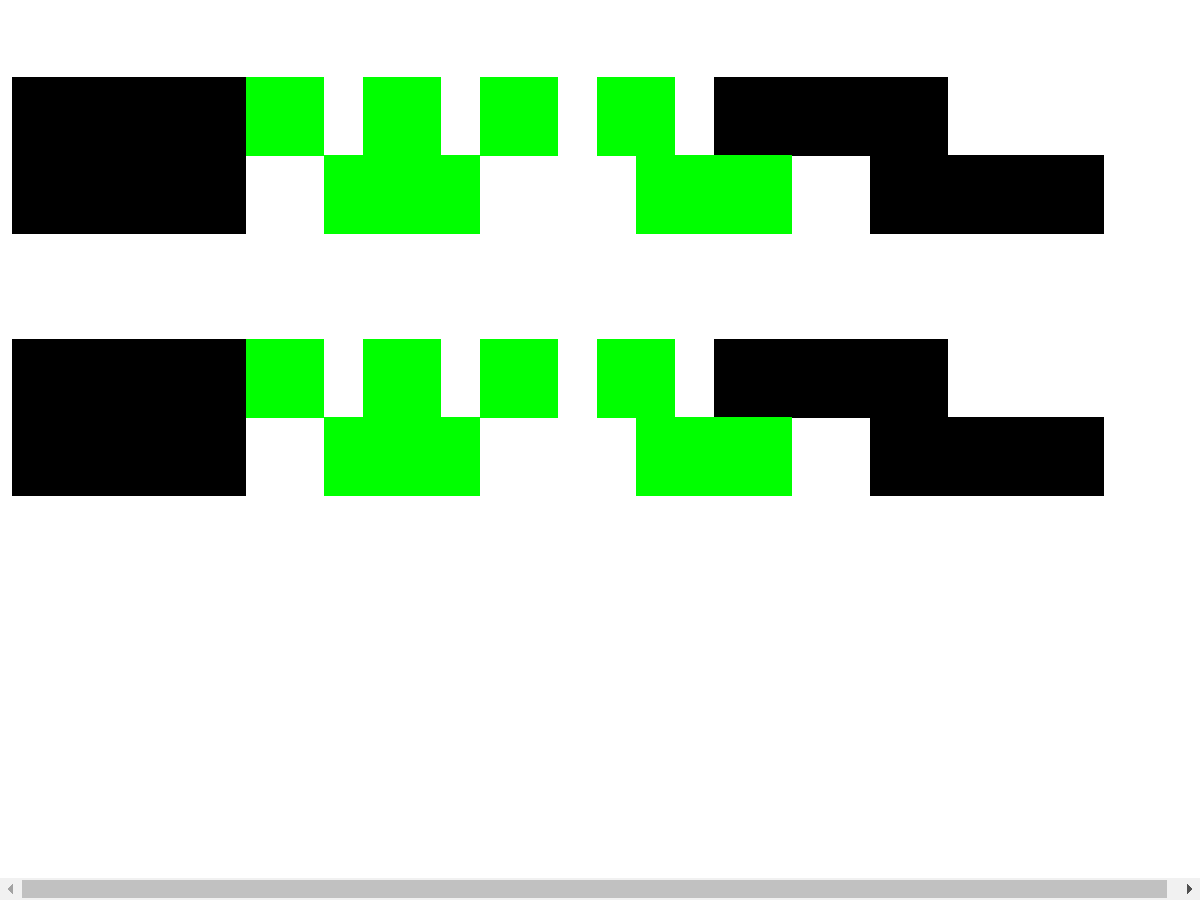
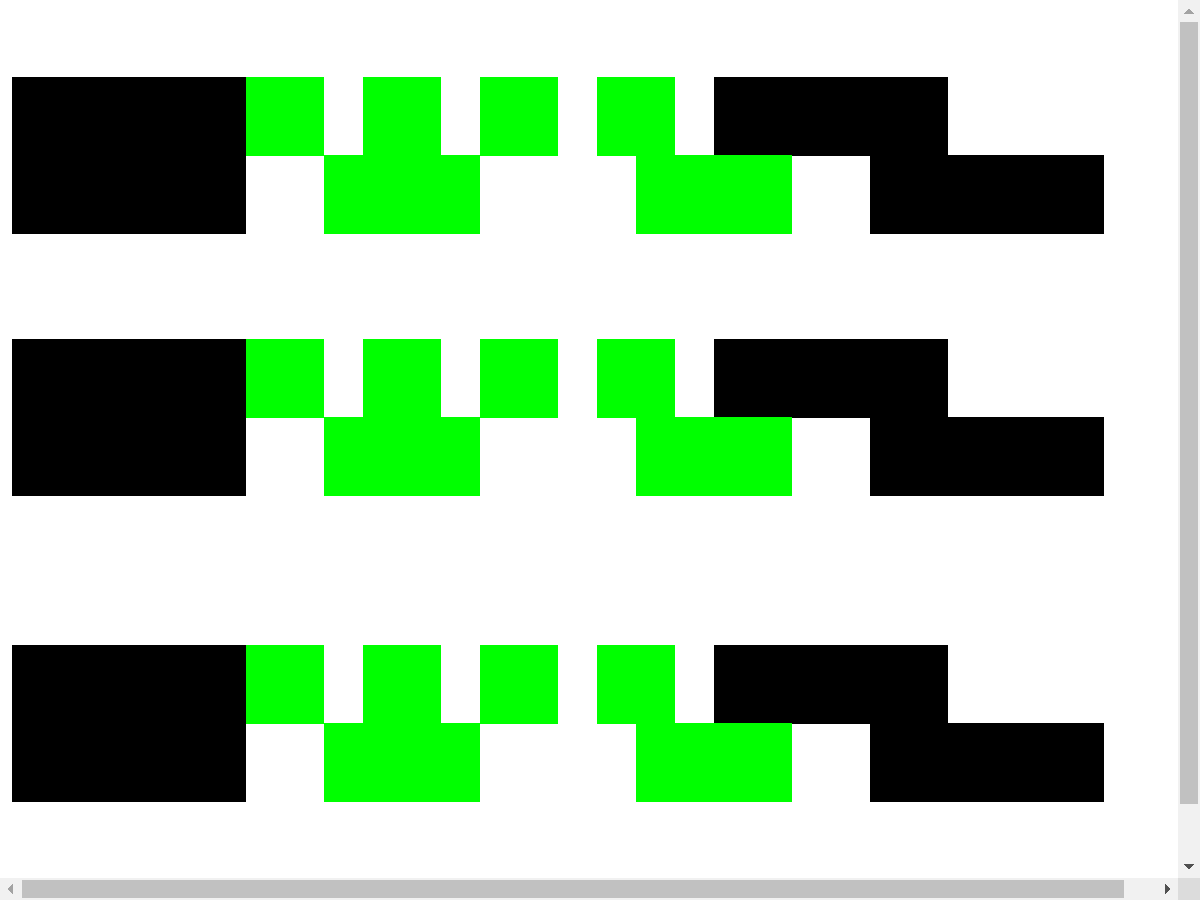
SVG Text NG: Fix letter-spacing and word-spacing with zoom
FontDescription::LetterSpacing and WordSpacing have zoomed values, and
|scaling_factor| also contains zoom factor. We should avoid to multiply
zoom factor twice.

Bug: 1179585
Commit-Queue: Kent Tamura <tkent@chromium.org>
Commit-Queue: Koji Ishii <kojii@chromium.org>
Commit-Queue: Yoshifumi Inoue <yosin@chromium.org>
Auto-Submit: Kent Tamura <tkent@chromium.org>
Cr-Commit-Position: refs/heads/master@{#891161}

diff --git a/web_tests/svg/text/spacing.html b/web_tests/svg/text/spacing.html
@@ -32,3 +32,8 @@ AAA <span class="wsp">BB CC</span> DDD</p>
 <text class="base" y="30">AAA<tspan class="lsp">BBBB</tspan>CCC</text>
 <text class="base" y="56">AAA <tspan class="wsp">BB CC</tspan> DDD</text>
 </svg>
+<br>
+<svg width="200" height="50" viewBox="0 0 400 100" style="zoom:4.0">
+<text class="base" y="30">AAA<tspan class="lsp">BBBB</tspan>CCC</text>
+<text class="base" y="56">AAA <tspan class="wsp">BB CC</tspan> DDD</text>
+</svg>

diff --git a/renderer/core/layout/svg/layout_svg_inline_text.cc b/renderer/core/layout/svg/layout_svg_inline_text.cc
@@ -462,10 +462,11 @@ void LayoutSVGInlineText::ComputeNewScaledFontForStyle(
 
   FontDescription font_description = unscaled_font_description;
   font_description.SetComputedSize(scaled_font_size);
+  const float zoom = style.EffectiveZoom();
   font_description.SetLetterSpacing(font_description.LetterSpacing() *
-                                    scaling_factor);
+                                    scaling_factor / zoom);
   font_description.SetWordSpacing(font_description.WordSpacing() *
-                                  scaling_factor);
+                                  scaling_factor / zoom);
 
   scaled_font =
       Font(font_description, document.GetStyleEngine().GetFontSelector());
